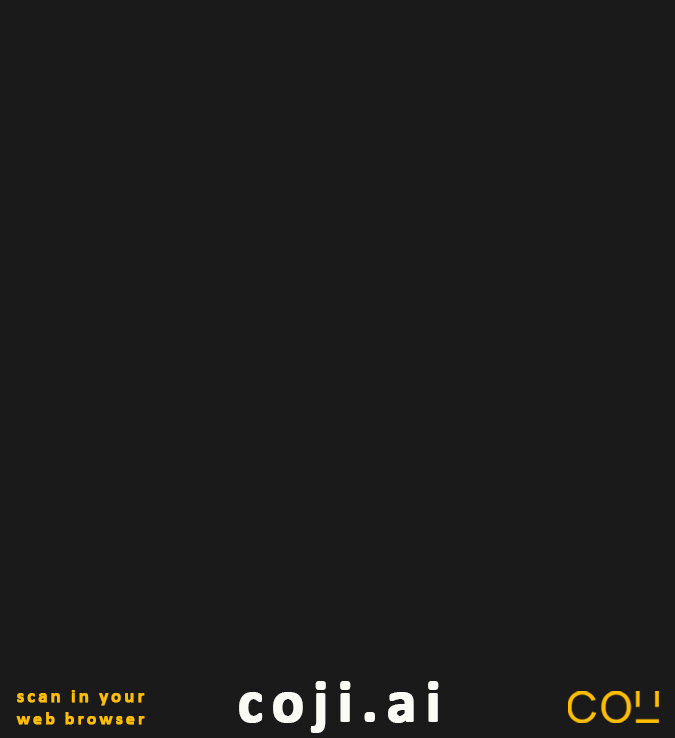
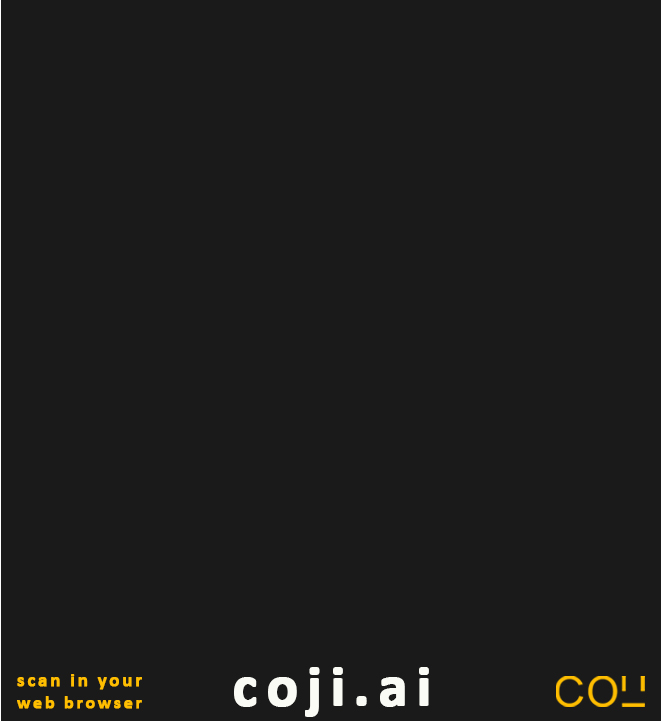
fix

diff --git a/api/modules/generate_visual_code.py b/api/modules/generate_visual_code.py
@@ -33,7 +33,6 @@ def generate_visual_code(style_module: dict, code_id: str, style_path: str):
                                 fill=tuple(style_info['border']['border-color']))
 
     if style_info['template']['add-template']:
-        coji_code = coji_code.resize(style_info['template']['resize-to'])
         template = Image.open(
             os.path.join(style_path, 'pieces', 'code-template.jpg')
         )

diff --git a/api/statics/styles/geom-original/properties.py b/api/statics/styles/geom-original/properties.py
@@ -12,8 +12,7 @@ style_module['style-info'] = {
     },
     'template': {
         'add-template': True,
-        'template-offset': (13, 13),
-        'resize-to': (650, 650)
+        'template-offset': (16, 16),
     }
 }
 
